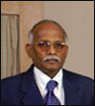
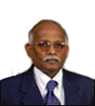
fixes

diff --git a/public/stylesheets/home2.css b/public/stylesheets/home2.css
@@ -999,3 +999,7 @@ padding-bottom: 10%;
     bottom: 20px;
     right: 20px;
 }
+
+.left-margin{
+    left: 12px;
+}
